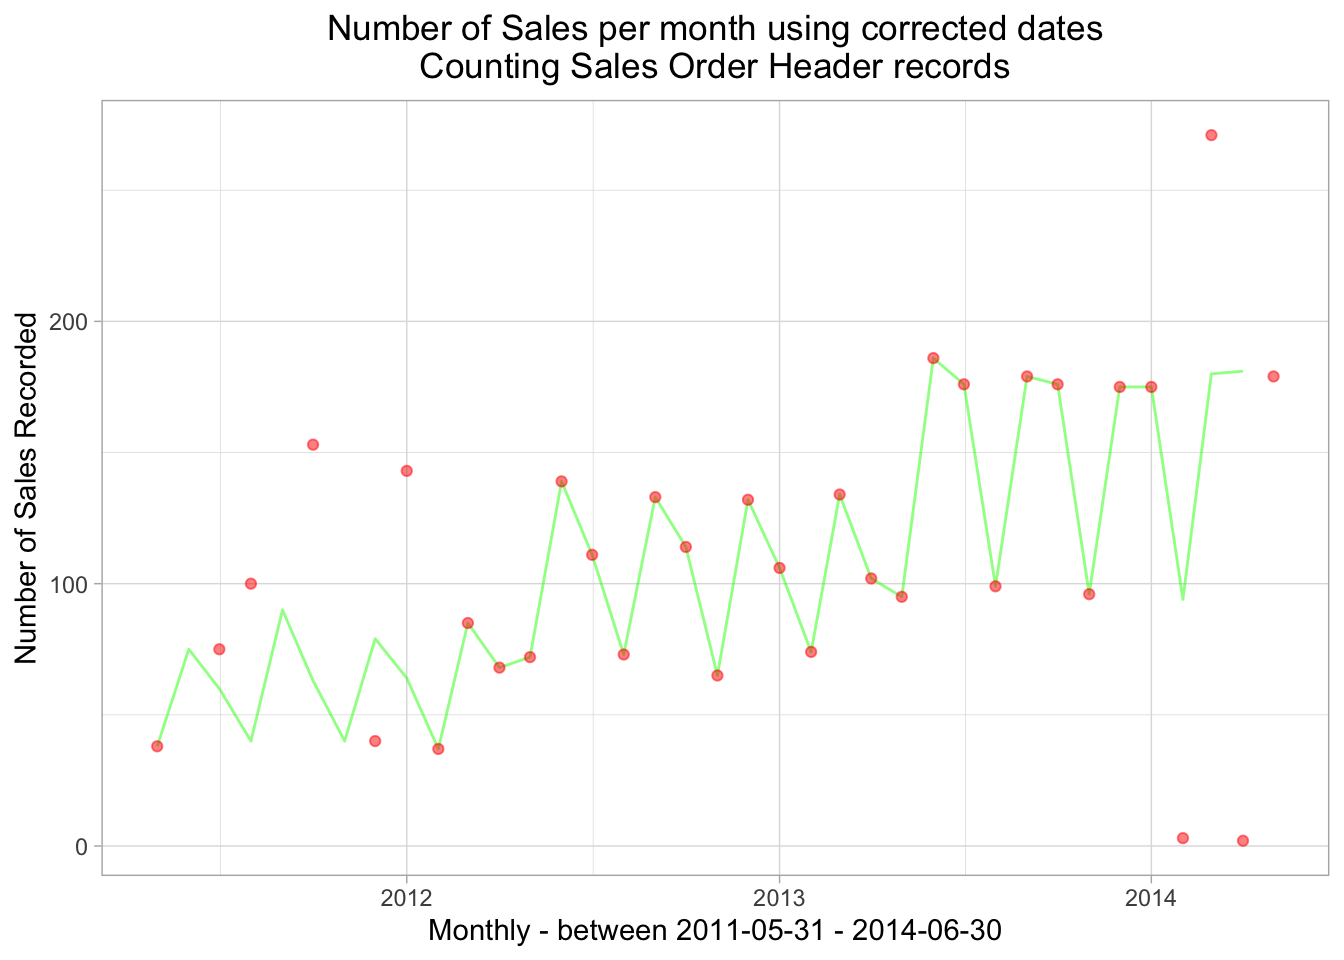
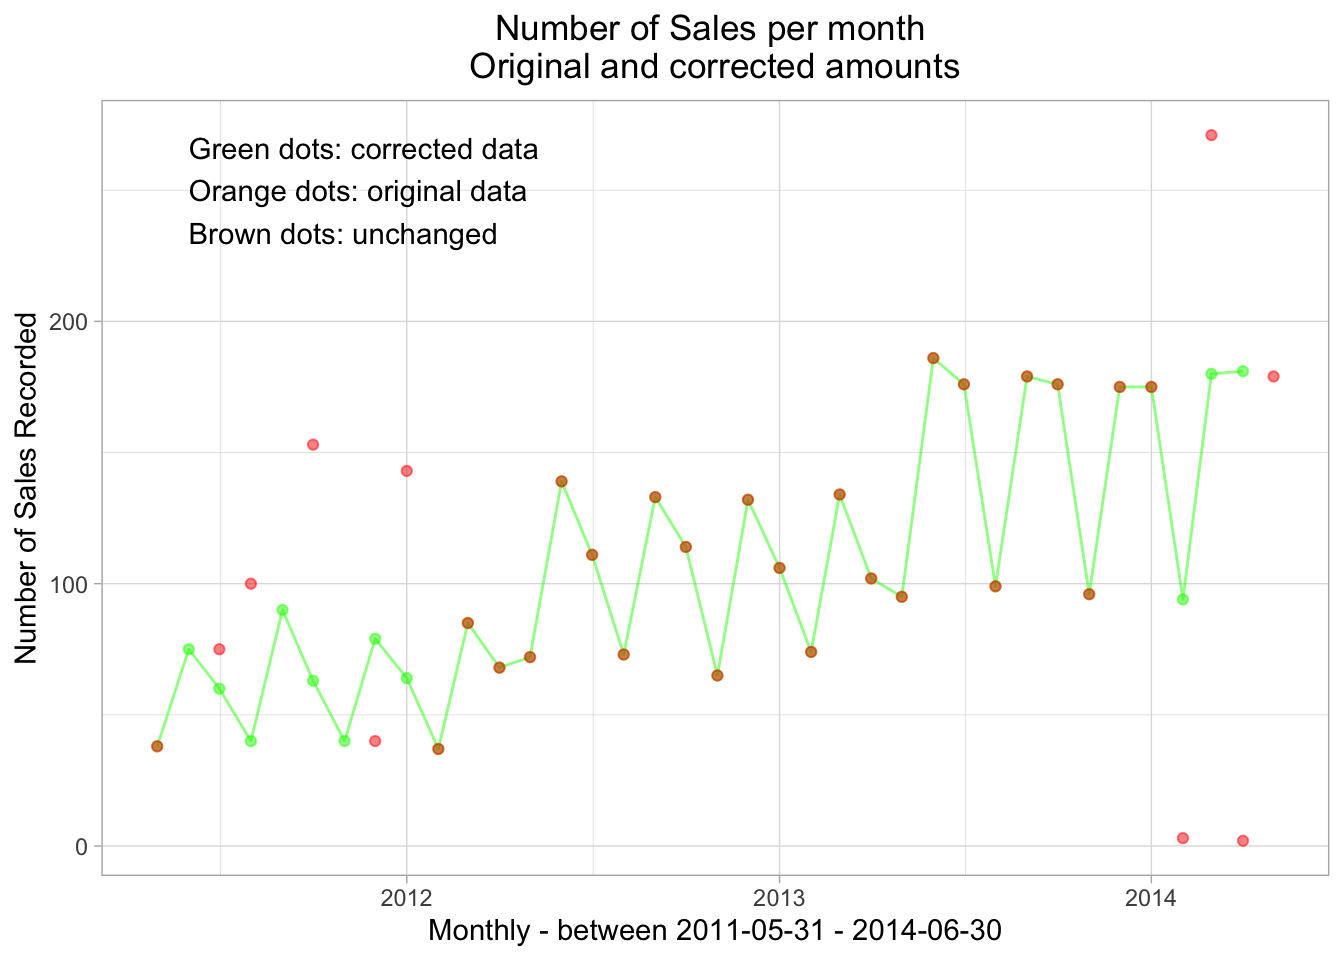
minor edits to the graphs at the end

diff --git a/docs/083-exploring-a-single-table.md b/docs/083-exploring-a-single-table.md
@@ -1239,8 +1239,8 @@ str(sales_rep_day_of_month_sales)
 ## Classes 'tbl_df', 'tbl' and 'data.frame':	40 obs. of  4 variables:
 ##  $ year : num  2011 2011 2011 2011 2011 ...
 ##  $ month: num  5 7 8 8 10 10 12 1 1 2 ...
-##  $ day  : num  31 1 31 1 1 31 1 29 1 29 ...
-##  $ n    : num  38 75 40 60 90 63 40 64 79 37 ...
+##  $ day  : num  31 1 31 1 31 1 1 29 1 29 ...
+##  $ n    : num  38 75 40 60 63 90 40 64 79 37 ...
 ```
 
 ```r
@@ -1393,6 +1393,8 @@ The former query misses the Sales Rep sales recorded on the first of the month i
 
 ### Define a date correction function in R
 
+This code does the date-correction work on the R side:
+
 
 ```r
 monthly_sales_rep_adjusted <- tbl(con, in_schema("sales", "salesorderheader")) %>%
@@ -1455,7 +1457,9 @@ monthly_sales_rep_adjusted %>% filter(year(year_month) %in% c(2011,2014))
 ## 12 2014-04-01          3416764.       181
 ```
 
-### Define and store a PostgreSQL function to correct the date
+### Define and store a PostgreSQL function to correct the date{#define-postgres-date-function}
+
+The following code defines a function on the server side to correct the date:
 
 
 ```r
@@ -1491,9 +1495,7 @@ If you can do the heavy lifting on the database side, that's good.  R can do it,
 monthly_sales_rep_adjusted_with_psql_function <- tbl(con, in_schema("sales", "salesorderheader")) %>%
   select(orderdate, subtotal, onlineorderflag) %>%
   mutate(
-    orderdate = as.Date(orderdate),
-    day = day(orderdate)
-  ) %>%
+    orderdate = as.Date(orderdate)) %>%
   mutate(adjusted_orderdate = as.Date(so_adj_date(orderdate, onlineorderflag))) %>%
   filter(onlineorderflag == FALSE) %>%
   group_by(adjusted_orderdate) %>%
@@ -1614,16 +1616,17 @@ ggplot(
   aes(x = year_month, y = soh_count)
 ) +
   geom_line(alpha = .5 , color = "green") +
+  geom_point(alpha = .5 , color = "green") +
   geom_point(
     data = monthly_sales_rep_as_is, aes(
-      orderdate, soh_count
-    ), color = "red", alpha = .5
-  ) +
+      orderdate, soh_count), color = "red", alpha = .5) +
   theme(plot.title = element_text(hjust = .5)) + # Center ggplot title
+  annotate(geom = "text", y = 250, x = as.Date("2011-06-01"), 
+           label = "Green dots: corrected data\nOrange dots: original data\nBrown dots: unchanged",
+           hjust = 0) +
   labs(
     title = glue(
-      "Number of Sales per month using corrected dates\n",
-      "Counting Sales Order Header records"
+      "Number of Sales per month \nOriginal and corrected amounts"
     ),
     x = paste0("Monthly - between ", min_soh_dt, " - ", max_soh_dt),
     y = "Number of Sales Recorded"
@@ -1633,10 +1636,44 @@ ggplot(
 <img src="083-exploring-a-single-table_files/figure-html/unnamed-chunk-24-1.png" width="672" />
 
 
+```r
+mon_sales <- monthly_sales_rep_adjusted %>% 
+  rename(orderdate = year_month)
+
+sales_original_and_adjusted <- bind_rows(mon_sales, monthly_sales_rep_as_is, .id = "date_kind")
+```
+
+Does this graph add anything important?
+
+
+```r
+ggplot(
+  data = sales_original_and_adjusted,
+  aes(x = orderdate, y = soh_count, fill = date_kind)
+) +
+  geom_col(position = "dodge") +
+  theme(plot.title = element_text(hjust = .5)) + # Center ggplot title
+  labs(
+    title = glue(
+      "Number of Sales per month using corrected dates\n",
+      "Counting Sales Order Header records"
+    ),
+    x = paste0("Monthly - between ", min_soh_dt, " - ", max_soh_dt),
+    y = "Number of Sales Recorded",
+    fill = "Date\nadjustment"
+  ) 
+```
+
+<img src="083-exploring-a-single-table_files/figure-html/unnamed-chunk-26-1.png" width="672" />
+
+additive graph showing how correction adds in some months and subtracts in others.
+
+only show months where there is a mis-match.
+
 
 ```r
 ggplot(data = monthly_sales_rep_adjusted, aes(x = year_month, y = total_soh_dollars)) +
-  geom_col() +
+  geom_line() +
   scale_y_continuous(labels = dollar) +
   theme(plot.title = element_text(hjust = 0.5)) + # Center the title
   labs(
@@ -1647,7 +1684,7 @@ ggplot(data = monthly_sales_rep_adjusted, aes(x = year_month, y = total_soh_doll
   )
 ```
 
-<img src="083-exploring-a-single-table_files/figure-html/unnamed-chunk-25-1.png" width="672" />
+<img src="083-exploring-a-single-table_files/figure-html/unnamed-chunk-27-1.png" width="672" />
 
 Sales still seem to gyrate!
 
